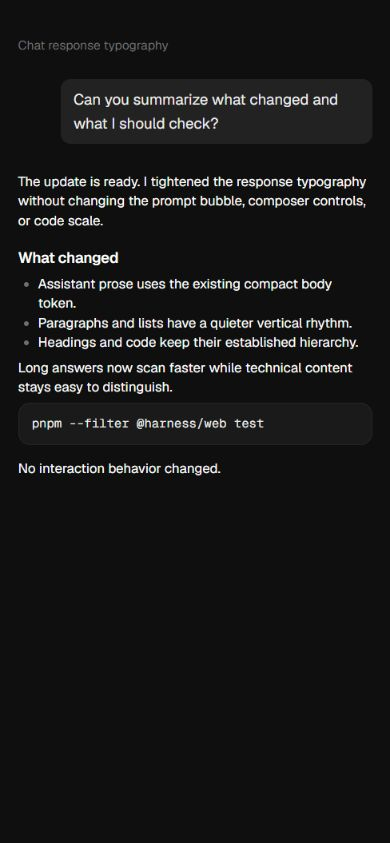
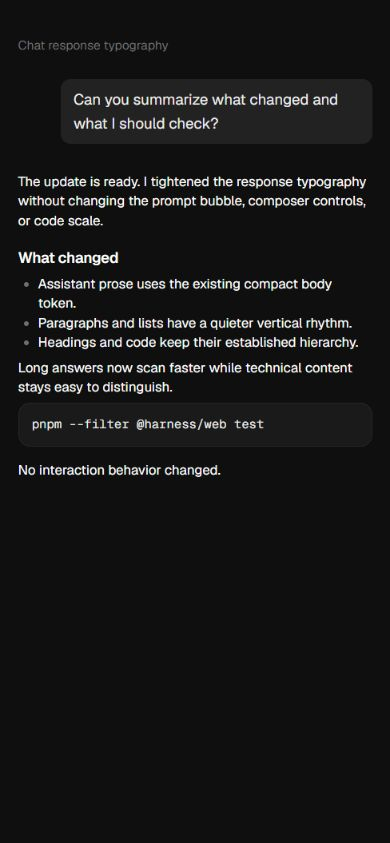
fix(chat): scope compact leading to response prose
Keep code blocks and completion rails on their established line metrics; recapture evidence with identical scroll and framing.

Changed region(s): [[0.0923, 0.4935, 0.5846, 0.586], [0.6154, 0.4935, 0.6769, 0.5243], [0.0615, 0.5552, 0.0923, 0.586]]

diff --git a/apps/web/src/styles/thread-reply-spacing.test.ts b/apps/web/src/styles/thread-reply-spacing.test.ts
@@ -8,6 +8,10 @@ describe('thread reply spacing', () => {
   it('keeps assistant prose compact without shrinking prompts or code', () => {
     const thread = css.match(/\.thread \{(?<body>[\s\S]*?)\n\}/)?.groups?.['body']
     const reply = css.match(/\.reply \{(?<body>[\s\S]*?)\n\}/)?.groups?.['body']
+    const responseMarkdown = css.match(/\.reply > \.md \{(?<body>[\s\S]*?)\n\}/)?.groups?.['body']
+    const proseLeading = css.match(
+      /\.reply > \.md :is\(p, ul, ol, blockquote\) \{(?<body>[\s\S]*?)\n\}/,
+    )?.groups?.['body']
     const proseSpacing = css.match(
       /\.reply > \.md p,\n\.reply > \.md ul,\n\.reply > \.md ol \{(?<body>[\s\S]*?)\n\}/,
     )?.groups?.['body']
@@ -15,8 +19,11 @@ describe('thread reply spacing', () => {
     const code = css.match(/\.md pre \{(?<body>[\s\S]*?)\n\}/)?.groups?.['body']
 
     expect(thread).toContain('font-size: var(--t-lg)')
-    expect(reply).toContain('font-size: var(--t-md)')
-    expect(reply).toContain('line-height: 1.45')
+    expect(reply).not.toContain('font-size')
+    expect(reply).not.toContain('line-height')
+    expect(responseMarkdown).toContain('font-size: var(--t-md)')
+    expect(responseMarkdown).toContain('line-height: 1.52')
+    expect(proseLeading).toContain('line-height: 1.45')
     expect(proseSpacing).toContain('margin-bottom: 6px')
     expect(listItem).toContain('margin-block: 0')
     expect(code).toContain('font-size: var(--t-sm)')

diff --git a/apps/web/src/styles/app.css b/apps/web/src/styles/app.css
@@ -6167,13 +6167,17 @@
 
 .reply {
   color: var(--response-text);
-  font-size: var(--t-md);
-  line-height: 1.45;
   position: relative;
 }
 
 .reply > .md {
+  font-size: var(--t-md);
+  line-height: 1.52;
   max-width: 72ch;
+}
+
+.reply > .md :is(p, ul, ol, blockquote) {
+  line-height: 1.45;
 }
 
 .reply > .md p,
